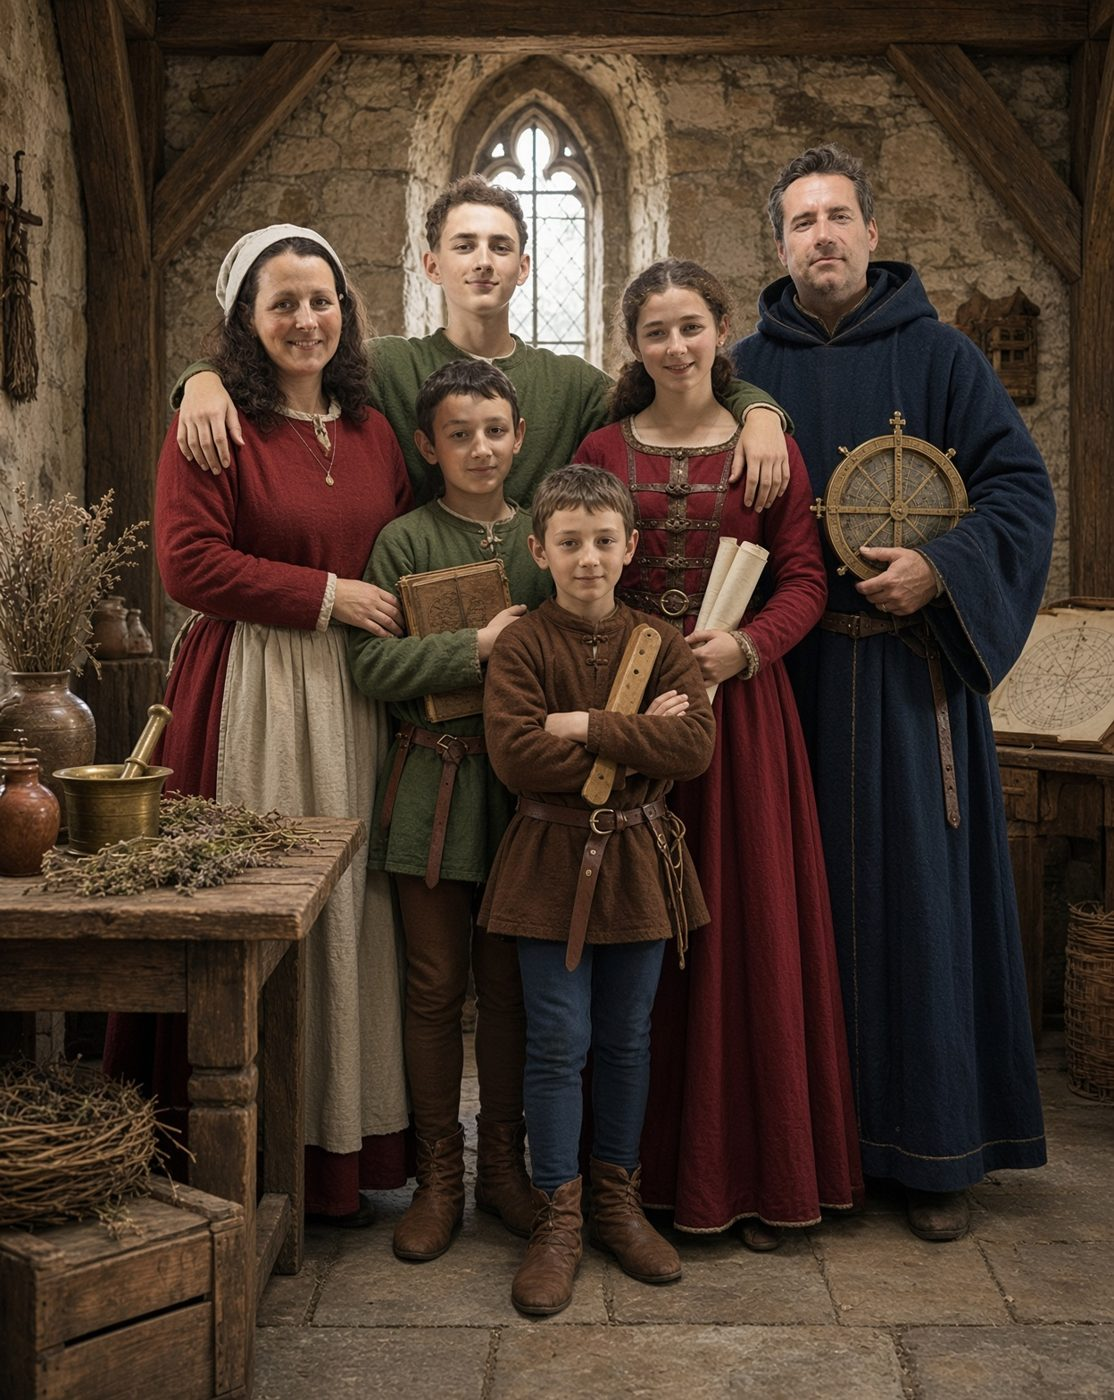
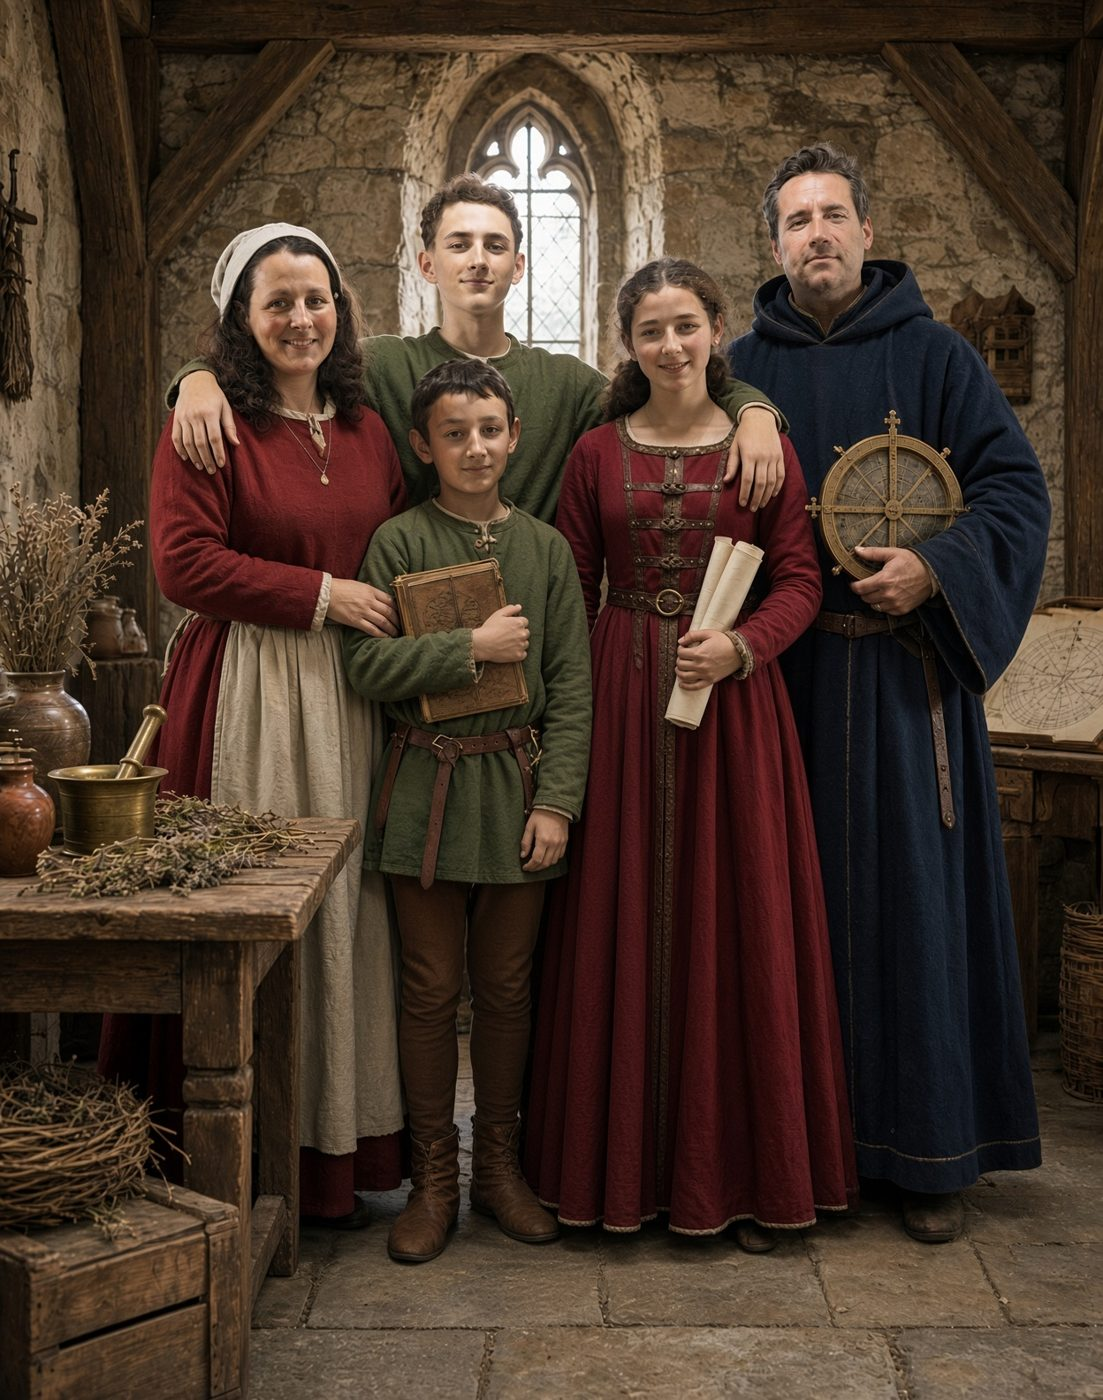
Ilustrace: děda Jindra (kap. VI), opravení Kuncovi

diff --git a/kronika/ilustrace.html b/kronika/ilustrace.html
@@ -15,6 +15,7 @@
 <h1>Ilustrace</h1>
 <figure class="ilustrace"><img src="ilu-01-robert.jpg" alt="Forman Robert Novák, Lenčin táta" loading="lazy"><figcaption><span class="jmeno">Forman Robert Novák, Lenčin táta</span><span class="kde"><a href="kapitola-02.html">Kapitola II – Vázička z Kdyně</a></span></figcaption></figure>
 <figure class="ilustrace"><img src="ilu-07-petra.jpg" alt="Petra, Lenčina máma, nese novinky" loading="lazy"><figcaption><span class="jmeno">Petra, Lenčina máma, nese novinky</span><span class="kde"><a href="kapitola-02.html">Kapitola II – Vázička z Kdyně</a></span></figcaption></figure>
+<figure class="ilustrace"><img src="ilu-17-jindra.jpg" alt="Děda Jindra Nekolný, dřevorubec z Krkavčí hory" loading="lazy"><figcaption><span class="jmeno">Děda Jindra Nekolný, dřevorubec z Krkavčí hory</span><span class="kde"><a href="kapitola-06.html">Kapitola VI – Medlešický řízek</a></span></figcaption></figure>
 <figure class="ilustrace"><img src="ilu-02-tobias.jpg" alt="Tobiáš se sokolem Šípem pod Křivoklátem" loading="lazy"><figcaption><span class="jmeno">Tobiáš se sokolem Šípem pod Křivoklátem</span><span class="kde"><a href="kapitola-07.html">Kapitola VII – Zrádci z Křivoklátu</a></span></figcaption></figure>
 <figure class="ilustrace"><img src="ilu-04-zbrojnosi.jpg" alt="Věční zbrojnoši David a Patrik" loading="lazy"><figcaption><span class="jmeno">Věční zbrojnoši David a Patrik</span><span class="kde"><a href="kapitola-13.html">Kapitola XIV – Věční zbrojnoši</a></span></figcaption></figure>
 <figure class="ilustrace"><img src="ilu-08-podkoni.jpg" alt="Podkoní Michal s Terezou, Malvínou a Klaudií" loading="lazy"><figcaption><span class="jmeno">Podkoní Michal s Terezou, Malvínou a Klaudií</span><span class="kde"><a href="kapitola-18.html">Kapitola XXII – Hromnice na jezeře Laka</a></span></figcaption></figure>

diff --git a/kronika/kapitola-06.html b/kronika/kapitola-06.html
@@ -31,6 +31,7 @@
 <p>V Pardubicích je Robert vysadil u dědova domu, složil tři sudy piva a ještě za světla jel dál do Hradce, kam vezl sklo a plátno.</p>
 <hr />
 <p>Děda Jindra Nekolný bydlel v Pardubicích v malém měšťanském domě kousek od náměstí, se sadem za domem a s jezírkem na konci sadu, ve kterém se v létě koupali vnuci a v zimě bruslili sousedi. Celý život kácel stromy v lesích kolem Krkavčí hory. Když umřela babička Věra, řekl, že v lese bez ní nevydrží, a odstěhoval se do Pardubic, kde lesy nejsou, jen sady. Byl to obr. Vysoký jako dveře stodoly, široký jako vůz, s rukama jako dvě sekery, a na každého, kdo vstoupil do jeho domu, se podíval, jako by ho vážil.</p>
+<figure class="ilustrace"><img src="ilu-17-jindra.jpg" alt="Děda Jindra Nekolný, dřevorubec z Krkavčí hory" loading="lazy"><figcaption>Děda Jindra Nekolný, dřevorubec z Krkavčí hory</figcaption></figure>
 <p>Na Vladimíra se díval dlouho.</p>
 <p>Pak řekl: „Je hubený.“</p>
 <p>Vladimír, který vážil tolik jako dva menší formani, na to neřekl nic. Lenka si zakryla pusu.</p>
